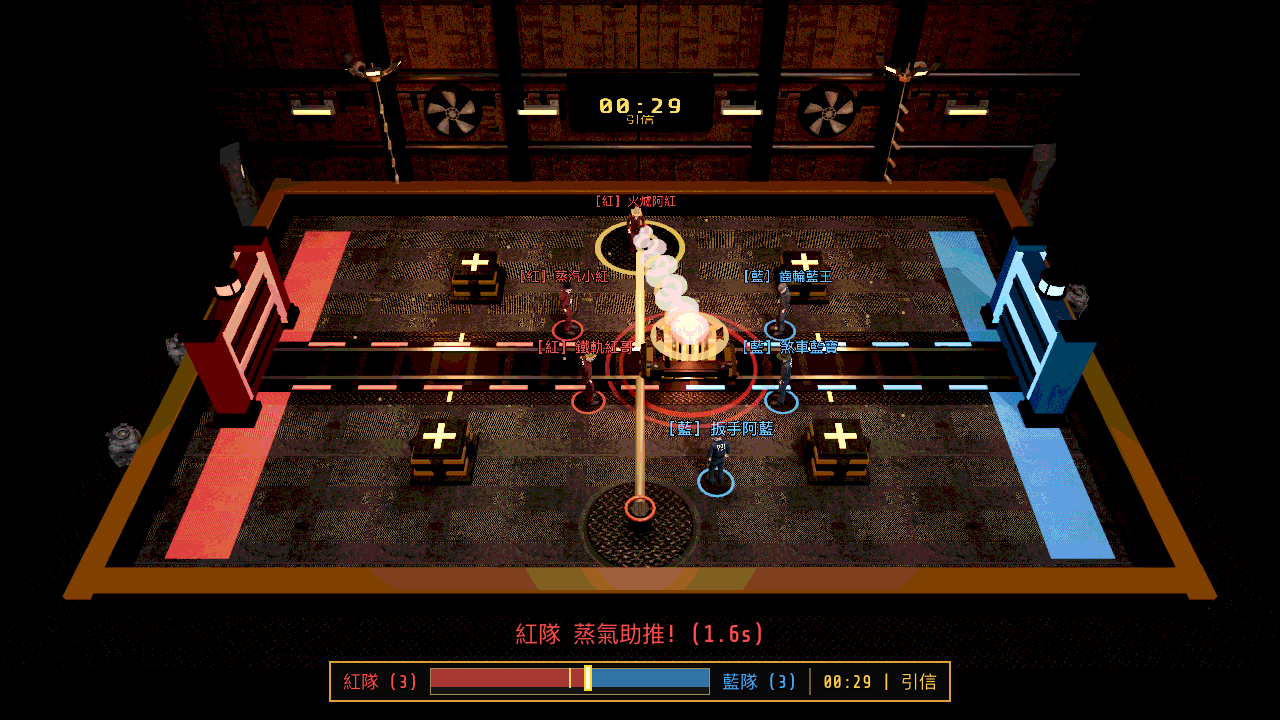
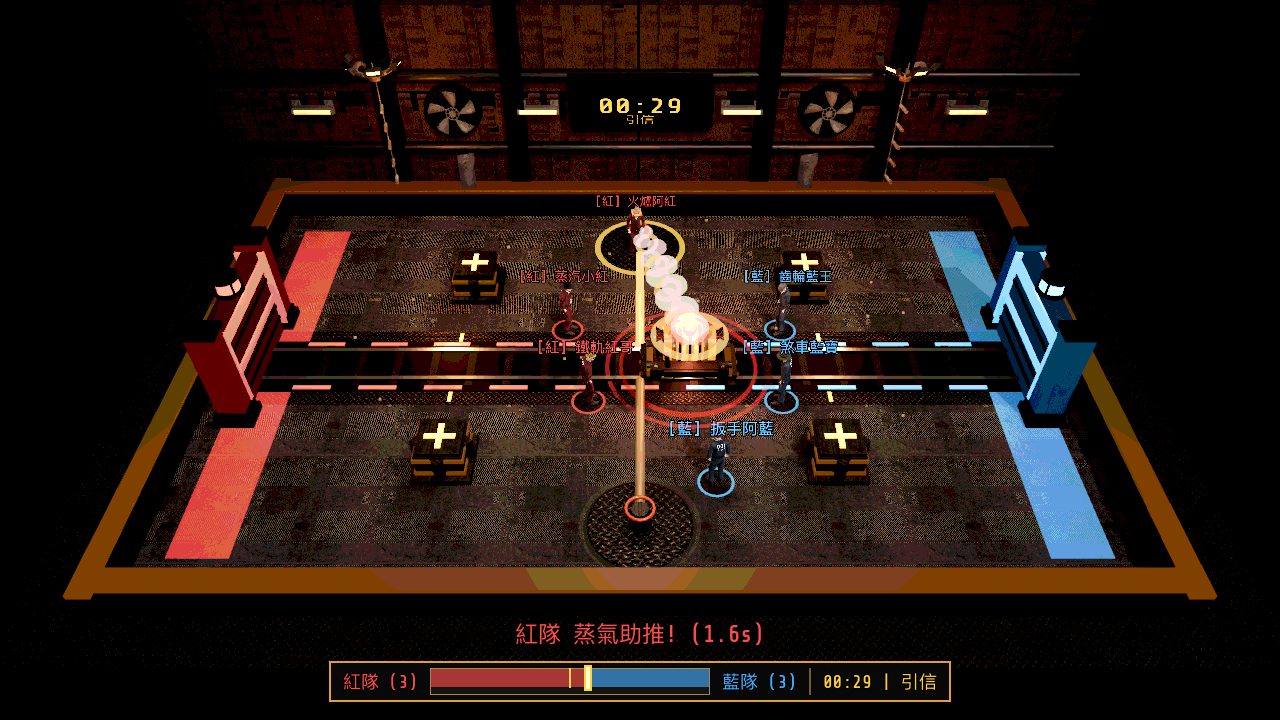
fix(mods): polish arena edge lighting, exit cleanup, and catalog sync

diff --git a/mods/roller-carnival/README.md b/mods/roller-carnival/README.md
@@ -5,7 +5,7 @@
 ![滾筒嘉年華小遊戲圖示](../../catalog/covers/roller-carnival.png)
 
 - **模組 ID**：`roller-carnival`
-- **版本**：`0.1.11`（目錄清單對應 `v0.1.11`）
+- **版本**：`0.1.13`（目錄清單對應 `v0.1.13`）
 - **授權**：`GPL-3.0-only`
 - **目標遊戲版本**：Steam Windows `v2.1.2`
 - **開發與打包規範**：[自研模組開發、測試、接入與打包規範](../../docs/zh-TW/development/mod-development.md) · [ADR-009](../../docs/zh-TW/architecture/ADR-009-bundled-first-party-mods.md)
@@ -41,7 +41,7 @@
 ## Windows 實機安裝、使用與驗收流程
 
 ### 1. 安裝方式
-- **透過管理器安裝（推薦）**：確認 Windows 已安裝 Steam 版 *Machine Party* `v2.1.2`（遊戲需先關閉），於管理器點選安裝／更新 **Roller Carnival (`v0.1.11`)**；若需同時啟用僅自己可見的頭頂聚光燈，一併安裝 **Player Spotlight (`v0.1.0`)**。管理器會自動設定內建載入器。
+- **透過管理器安裝（推薦）**：確認 Windows 已安裝 Steam 版 *Machine Party* `v2.1.2`（遊戲需先關閉），於管理器點選安裝／更新 **Roller Carnival (`v0.1.13`)**；若需同時啟用僅自己可見的頭頂聚光燈，一併安裝 **Player Spotlight (`v0.1.1`)**。管理器會自動設定內建載入器。
 - **本機開發包直接實測**：在倉庫執行 `node scripts/pack-mod.mjs roller-carnival`（以及 `node scripts/pack-mod.mjs player-spotlight`），將對應 ZIP 解壓至遊戲目錄的 `mods/roller-carnival/`（與 `mods/player-spotlight/`），確認載入器已啟用後從 Steam 啟動遊戲。
 
 ### 2. 遊戲內使用流程
@@ -59,15 +59,15 @@
 
 ## 檔案結構（打入 R2 ZIP vs. 本機開發檔案）
 
-依 [`scripts/pack-mod.mjs`](../../scripts/pack-mod.mjs) 規則，僅以下**執行期檔案**會被封裝為確定性 `roller-carnival-0.1.11.zip` 並隨目錄 Worker 與 R2 分發：
+依 [`scripts/pack-mod.mjs`](../../scripts/pack-mod.mjs) 規則，僅以下**執行期檔案**會被封裝為確定性 `roller-carnival-0.1.13.zip` 並隨目錄 Worker 與 R2 分發：
 
 | 檔案 | 打入 R2 ZIP | 職責 |
 | --- | --- | --- |
 | `mod.json` | 是 | 模組中繼資料、入口腳本宣告與優先權 |
 | `main.gd` | 是 | MPML API v2 入口：註冊虛擬腳本、場景 Hook與 `ShapeCutter` 替換 |
 | `config.gd` | 是 | 預設平衡參數、安全生成間隔底線與積分計算 |
-| `carnival_meshes.gd` | 是 | 程序化 3D 齒輪、滾筒、岩漿池、齊平起跑線與燈泡框舞台建構器 |
-| `fx_pool.gd` | 是 | 撞擊血花、淘汰血霧與地面血跡貼花常駐物件池與視錐預熱 |
+| `carnival_meshes.gd` | 是 | 程序化 3D 工業舞台（混凝土/花紋鋼板/鐵網格/高光滾筒材質、聚光燈池/SSAO/深度霧）、原版排風扇/道具/貼花與燈泡框建構器 |
+| `fx_pool.gd` | 是 | 撞擊血花、淘汰血霧、熔岩上升火星與地面血跡貼花常駐物件池與視錐預熱 |
 | `hud_ui.gd` | 是 | CRT 黑幕過場、四角定位框、倒數與分數結算面板 UI |
 | `team_support.gd` | 是 | 共享可選組隊輔助模組（讀取 `team-party` 註冊表並降級支援 FFA） |
 | `roller_carnival_game.gd` | 是 | 主遊戲場景迴圈、跳蹲物理、純擊退與淘汰判定、原生小隊規則與聯機同步 |
@@ -103,7 +103,7 @@ npm run check:architecture && npm test && npm run lint:rust && npm run test:rust
 
 ## 安裝、共存與驗證狀態
 
-- **R2 鏡像分發與自動載入器**：桌面端透過目錄 Worker 從 R2 下載並校驗 `roller-carnival-0.1.11.zip` 的 SHA-256；首次安裝且偵測不到外部載入器時，管理器會透過潔淨室 `pck_loader.rs` + `mpm_bootstrap.gd` 自動設定載入環境；解除安裝最後一個受管模組時會無損截斷還原原版 `Machine Party.pck`。
+- **R2 鏡像分發與自動載入器**：桌面端透過目錄 Worker 從 R2 下載並校驗 `roller-carnival-0.1.13.zip` 的 SHA-256；首次安裝且偵測不到外部載入器時，管理器會透過潔淨室 `pck_loader.rs` + `mpm_bootstrap.gd` 自動設定載入環境；解除安裝最後一個受管模組時會無損截斷還原原版 `Machine Party.pck`。
 - **外部載入器與互斥**：若玩家遊戲目錄已有 `MachinePartyModLoader.exe`，會保留原有載入器僅放入 `mods/roller-carnival/`；與 `overtime` 等直接修補 PCK 檔案的模組保持互斥保護。
 - **目前驗證狀態**：
   - ✅ macOS Godot 4.5.2 語法檢查與 `--self-test` 通過、`scripts/pack-mod.mjs` 確定性 ZIP 與 Rust L1/L3 原版 Steam v2.1.2 `Machine Party.pck` 寫入/無損還原模擬測試通過。

diff --git a/mods/bubble-blitz/README.md b/mods/bubble-blitz/README.md
@@ -5,7 +5,7 @@
 ![泡泡爆破小游戏图示](../../catalog/covers/bubble-blitz.png)
 
 - **模组 ID**：`bubble-blitz`
-- **版本**：`0.1.5`（目录清单对应 `v0.1.5`）
+- **版本**：`0.1.7`（目录清单对应 `v0.1.7`）
 - **授权**：`GPL-3.0-only`
 - **目标游戏版本**：Steam Windows `v2.1.2`
 - **开发与打包规范**：[自研模组开发、测试、接入与打包规范](../../docs/zh-CN/development/mod-development.md) · [ADR-009](../../docs/zh-CN/architecture/ADR-009-bundled-first-party-mods.md) · [ADR-015](../../docs/zh-CN/architecture/ADR-015-multi-minigame-hub.md)
@@ -47,8 +47,8 @@
 | `mod.json` | 是 | 模组清单与入口声明 |
 | `main.gd` | 是 | MPML API v2 入口：注册至多小游戏共存中心（槽位 `ScavangerChairs = 8`） |
 | `config.gd` | 是 | 预置参数、4 套随机对称地图生成、动态尺寸与综合计分 |
-| `arena_meshes.gd` | 是 | 程序化 3D 工业舞台、水泡、水柱、传送带、道具、压板与 CRT 图标 |
-| `fx_pool.gd` | 是 | 爆炸火焰、粒子、贴花与灯光常驻对象池与错帧清理 |
+| `arena_meshes.gd` | 是 | 程序化 3D 工业仓库舞台（混凝土/花纹钢板/高光滚轴对比材质）、原版排风扇/道具/油污贴花、水泡、传送带、道具、压板与 CRT 图标 |
+| `fx_pool.gd` | 是 | 爆炸火焰、粒子、焦痕/血迹贴花、漂浮尘埃与灯光常驻对象池与错帧清理 |
 | `ai_controller.gd` | 是 | 机器人避弹、寻路、放弹及组队救援 AI 决策 |
 | `team_support.gd` | 是 | 共享可选组队辅助模块（读取 `team-party` 注册表并降级支持 FFA） |
 | `bubble_blitz_game.gd` | 是 | 主游戏模拟与房主权威联机同步（含原生小队规则与封面截图） |

diff --git a/mods/spike-ring/README.md b/mods/spike-ring/README.md
@@ -5,7 +5,7 @@
 ![尖刺圆环小游戏图示](../../catalog/covers/spike-ring.png)
 
 - **模组 ID**：`spike-ring`
-- **版本**：`0.1.3`（目录清单对应 `v0.1.3`）
+- **版本**：`0.1.5`（目录清单对应 `v0.1.5`）
 - **授权**：`GPL-3.0-only`
 - **目标游戏版本**：Steam Windows `v2.1.2`
 - **设计参数与算法细节**：[Spike Ring 设计与开发文档](DESIGN.md)
@@ -41,9 +41,9 @@
 | `mod.json` | 是 | 模组清单与入口声明 |
 | `main.gd` | 是 | MPML API v2 入口：注册至多小游戏共存中心（槽位 `BurnRecycle = 17`） |
 | `config.gd` | 是 | 竞技场尺寸、难度曲线、关卡主题与同步参数配置 |
-| `arena_meshes.gd` | 是 | 程序化圆形机械舞台、外围工厂环境、激光机关缓存资源与 CRT 图标 |
+| `arena_meshes.gd` | 是 | 程序化圆形机械舞台（混凝土/花纹钢板/铁网格对比材质）、原版工业道具/排风扇/油污贴花、机关缓存资源与 CRT 图标 |
 | `hazard_director.gd` | 是 | 安全生成器、激光/电锯/地刺波次导演与缩圈尖刺环逻辑 |
-| `fx_pool.gd` | 是 | 推搡命中与淘汰粒子常驻对象池与视锥预热 |
+| `fx_pool.gd` | 是 | 推搡命中与淘汰粒子、战斗焦痕贴花、闪光与微粒常驻对象池与视锥预热 |
 | `ai_controller.gd` | 是 | 机器人避险走位与敌我目标推搡决策 |
 | `team_support.gd` | 是 | 共享可选组队辅助模块（读取 `team-party` 注册表并降级支持 FFA） |
 | `spike_ring_game.gd` | 是 | 主游戏模拟与房主权威联机同步（含原生小队规则） |

diff --git a/mods/core-heist/README.md b/mods/core-heist/README.md
@@ -20,11 +20,11 @@ Team-only 75-second industrial energy heist minigame built on [`mpm-core`](../mp
 | `main.gd` | MPML v2 entry, registers scripts & `team_only` admission into `mpm-core` |
 | `official_minigame.gd` | Official `Minigame` signal/RPC lifecycle wrapper |
 | `config.gd` | Phase timings, 2–4 team arena geometry, 32-cell pool scaling & combat constants |
-| `arena_meshes.gd` | Warm industrial 2–4 team arena, factory back wall + 3D CRT monitor, vaults, player rigs & icon |
-| `fx_pool.gd` | Pre-allocated FX pools via `mpm-core.create_fx_pool()` with warmup |
+| `arena_meshes.gd` | Warm industrial 2–4 team arena (concrete/treadplate/grate/brick PBR contrast), vanilla PCK props & grime decals, 3D CRT monitor, vaults, player rigs & icon |
+| `fx_pool.gd` | Pre-allocated FX pools via `mpm-core.create_fx_pool()`, scorch Decal, flash light & ambient dust mote pools with warmup |
 | `hud_ui.gd` | Diegetic-first HUD: frameless top-left scores, opening YOU marker, 3-2-1-GO countdown & standalone CRT summary |
 | `ai_controller.gd` | 4-state co-op AI (Escort, Carrier, Defender, Collector/Raider) |
-| `core_heist_game.gd` | Server-authoritative simulation, Post-FX, 20 Hz snapshots & `team_support` scoring |
+| `core_heist_game.gd` | Server-authoritative simulation, indoor SpotLight pools/SSAO/depth fog, Post-FX, 20 Hz snapshots & `team_support` scoring |
 | `team_support.gd` | Synced from `mods/_shared/team-support/team_support.gd` |
 | `self_test.gd` | Tier-0 `--self-test`, `--smoke-test`, and `--capture-screenshot` staging |
 

diff --git a/mods/bomb-cart/README.md b/mods/bomb-cart/README.md
@@ -32,9 +32,9 @@ Adaptive 2–4 team (`team_only`, `min_teams: 2`, `max_teams: 4`) 75-second indu
 | `main.gd` | MPML v2 entry, registers scripts & 2–4 team `team_only` admission into `mpm-core` |
 | `official_minigame.gd` | Official `Minigame` signal/RPC lifecycle wrapper |
 | `config.gd` | Balance constants, 4-team colors, adaptive 2/3/4-team rail & valve geometry, oriented cart collision |
-| `bomb_cart_game.gd` | Host-authoritative simulation, 2–4 team turntable physics, door breach elimination, post-FX & 20 Hz snapshots |
-| `arena_meshes.gd` | Warm foundry-railyard arena, 2/3/4-branch rails & turntable hub, 3D diegetic CRT monitor, cart & player rigs |
-| `fx_pool.gd` | Pre-allocated FX pools with frustum warmup |
+| `bomb_cart_game.gd` | Host-authoritative simulation, 2–4 team turntable physics, indoor SpotLight pools/SSAO/depth fog, post-FX, audio & 20 Hz snapshots |
+| `arena_meshes.gd` | Warm foundry-railyard arena (concrete/treadplate/grate/oiled-rail PBR contrast), vanilla PCK props & grime decals, 2/3/4-branch rails & turntable hub, 3D CRT monitor, cart & player rigs |
+| `fx_pool.gd` | Pre-allocated FX, scorch Decal, flash light, ambient mote & wheel-spark pools with frustum warmup |
 | `hud_ui.gd` | Bottom-center 0px-radius industrial gauge (2-team rail bar / 3–4 team door status strip), YOU marker & outlined 3-2-1-GO |
 | `ai_controller.gd` | 2–4 team 3-role flanking/pushing/dodging AI |
 | `team_support.gd` | Synced from `mods/_shared/team-support/team_support.gd` |
